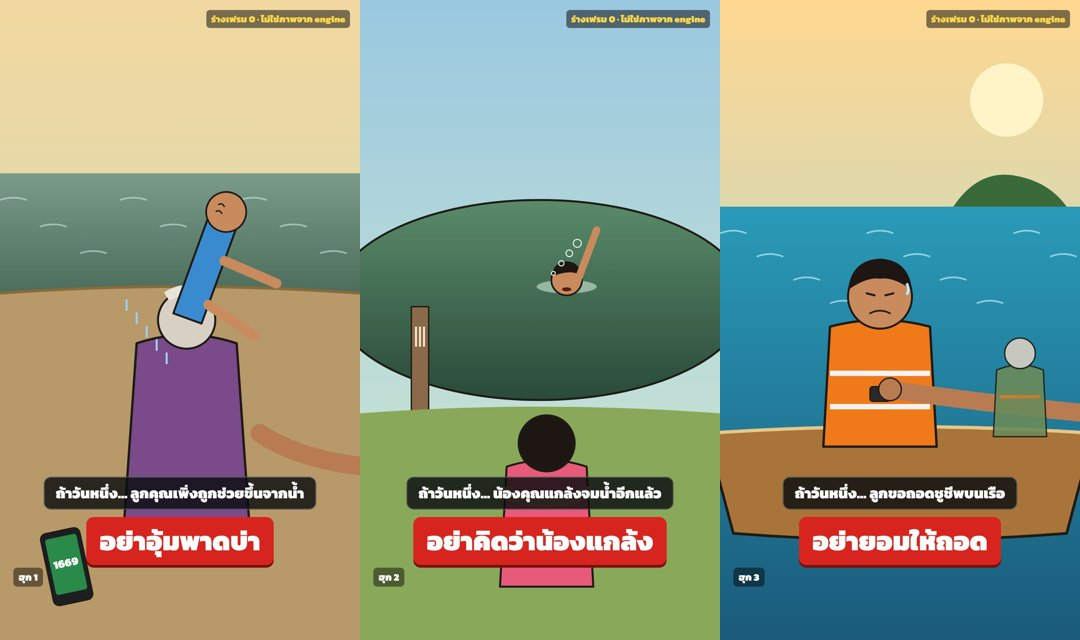
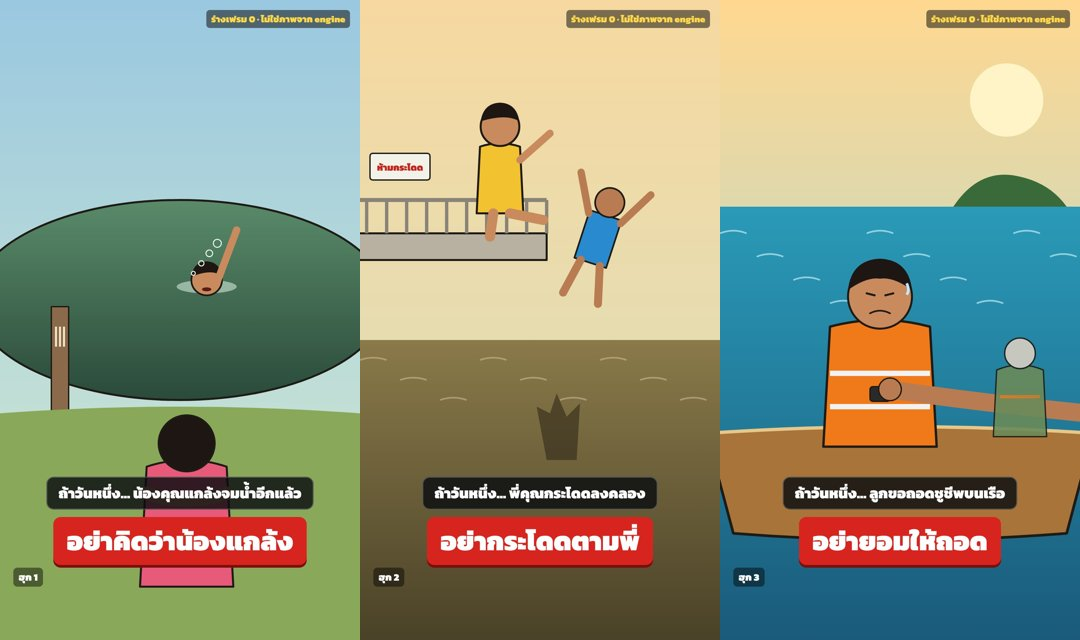
hooks 8 Nov v2: draping hook archived (same command as มือพราย EP.2), prank-drowning promoted with rule 7 as main knowledge, new backup 'don't jump in after your brother' (DDC rule 5), life-vest hook gets the marine department wording
Claude-Session: https://claude.ai/code/session_017iwyCvx1zDsQSsZQNMKKUs

diff --git a/video/release/hooks/candidates/2026-11-08/src/frames.py b/video/release/hooks/candidates/2026-11-08/src/frames.py
@@ -76,8 +76,28 @@ h3 = f"""<defs><linearGradient id="s3" x1="0" y1="0" x2="0" y2="1"><stop offset=
 <g transform="translate(900,1250)" opacity=".9"><path d="M-70,-140Q0,-170 70,-140L80,60H-80Z" fill="#6a8a5a" {ln(4)}/><path d="M-60,-60h120" stroke="#f07a1a" stroke-width="10" opacity=".8"/><circle cy="-190" r="46" fill="#d8d0c4" {ln(4)}/></g>
 """
 
-for i, (body, c1, cmd) in enumerate([(h1, "ถ้าวันหนึ่ง… ลูกคุณเพิ่งถูกช่วยขึ้นจากน้ำ", "อย่าอุ้มพาดบ่า"),
-                                      (h2, "ถ้าวันหนึ่ง… น้องคุณแกล้งจมน้ำอีกแล้ว", "อย่าคิดว่าน้องแกล้ง"),
+
+# ---------------- hook 4 (v2): canal bridge — big brother mid-air, little brother on the railing about to follow; murky water, a stump under the surface
+h4 = f"""<defs><linearGradient id="s4" x1="0" y1="0" x2="0" y2="1"><stop offset="0" stop-color="#f6d8a0"/><stop offset="1" stop-color="#d8e0c0"/></linearGradient>
+<linearGradient id="w4" x1="0" y1="0" x2="0" y2="1"><stop offset="0" stop-color="#8a7a4a"/><stop offset="1" stop-color="#4a4228"/></linearGradient></defs>
+<rect width="1080" height="1920" fill="url(#s4)"/>
+<rect y="1020" width="1080" height="900" fill="url(#w4)"/>
+{''.join(f'<path d="M{k*120},{1080+(k%3)*60}q40,-14 80,0" stroke="#c8b88a" stroke-width="5" fill="none" opacity=".6"/>' for k in range(9))}
+<!-- the hidden stump under the murky surface (the viewer sees it, the boys do not) -->
+<path d="M560,1380l-30,-160l40,20l20,-60l30,70l40,-40l-10,170z" fill="#2a2216" opacity=".55"/>
+<!-- the concrete bridge from the left, railing -->
+<path d="M-20,700H560V780H-20Z" fill="#b8b0a0" {ln(6)}/><path d="M-20,600H560" stroke="#8a8478" stroke-width="12"/>{''.join(f'<path d="M{20+k*60},600V700" stroke="#8a8478" stroke-width="10"/>' for k in range(10))}
+<!-- big brother in mid-air, arms up -->
+<g transform="translate(700,760) rotate(18)"><path d="M-50,-120h100v150h-100z" fill="#2a8ad0" {ln(5)}/><circle cy="-160" r="44" fill="#b97c52" {ln(5)}/><path d="M-50,-110L-110,-220M50,-110L110,-220" stroke="#b97c52" stroke-width="22" stroke-linecap="round"/><path d="M-30,30L-50,140M30,30L60,140" stroke="#b97c52" stroke-width="24" stroke-linecap="round"/></g>
+<!-- little brother climbing onto the railing, one leg over (the lure: follow him) -->
+<g transform="translate(420,600)"><path d="M-60,-160Q0,-180 60,-160L70,40H-70Z" fill="#f2c230" {ln(6)}/><circle cy="-220" r="58" fill="#c98a5e" {ln(6)}/><path d="M-58,-236Q-50,-290 0,-292Q50,-290 58,-236Q20,-260 -58,-236Z" fill="#1e1612"/>
+<path d="M-20,40L-30,110M30,40L130,60" stroke="#c98a5e" stroke-width="30" stroke-linecap="round"/><path d="M60,-120L150,-200" stroke="#c98a5e" stroke-width="22" stroke-linecap="round"/></g>
+<!-- a hand-painted sign on the bridge post (the clue): ห้ามกระโดด -->
+<g transform="translate(120,520)"><rect x="-90" y="-60" width="180" height="80" rx="8" fill="#f2f2e8" {ln(4)}/><text x="0" y="-8" font-family="F3" font-size="28" text-anchor="middle" fill="#c8241e">ห้ามกระโดด</text></g>
+"""
+
+for i, (body, c1, cmd) in enumerate([(h2, "ถ้าวันหนึ่ง… น้องคุณแกล้งจมน้ำอีกแล้ว", "อย่าคิดว่าน้องแกล้ง"),
+                                      (h4, "ถ้าวันหนึ่ง… พี่คุณกระโดดลงคลอง", "อย่ากระโดดตามพี่"),
                                       (h3, "ถ้าวันหนึ่ง… ลูกขอถอดชูชีพบนเรือ", "อย่ายอมให้ถอด")], 1):
     open(os.path.join(OUT, f"hook{i}.html"), "w").write(page(body, c1, cmd, "ฮุก " + str(i)))
 print("ok")

diff --git a/video/release/hooks/candidates/2026-11-08/hooks.md b/video/release/hooks/candidates/2026-11-08/hooks.md
@@ -1,4 +1,11 @@
-# ฮุก 3 ตัว · 8 พ.ย. 2569 · โต๊ะเรื่อง (เลน B)
+# ฮุก 3 ตัว · 8 พ.ย. 2569 · โต๊ะเรื่อง (เลน B) · v2
+
+- **v2 (6 พ.ย. หลังผู้ประสานงานให้ความเห็น):**
+  - อุ้มพาดบ่าออกจากชุด เพราะคำสั่งตรงกับมือพราย EP.2 ทุกคำ และฉบับเต็มลง 10 พ.ย. · ย้ายไปไว้ในคลังท้ายไฟล์ (หักมุม "เสียง 1669 คือแม่" เก็บไว้ใช้กับเรื่องอื่น)
+  - น้องแกล้งจมน้ำขึ้นเป็นตัวหลัก ความรู้หลักคือข้อ 7
+  - เพิ่ม "พี่กระโดดลงคลอง" เป็นตัวสำรองใหม่
+  - ชูชีพได้ข้อความตรงตัวจากกรมเจ้าท่าแล้ว
+
 
 - **เกณฑ์:** TEAM-CHARTER หัวข้อ 2b
   - HG1 ทางเลือกที่เจ็บ · HG2 ปมในครอบครัวตั้งแต่ EP.1 · HG3 หักมุมจากคน · HG7
@@ -17,37 +24,7 @@
 
 ---
 
-## ฮุก 1 · หลานเพิ่งถูกช่วยขึ้นจากน้ำ ยายจะอุ้มพาดบ่า (แนะนำเป็นตัวหลัก)
-- **ฮุก:** "ถ้าวันหนึ่ง… ลูกคุณเพิ่งถูกช่วยขึ้นจากน้ำ" + **{อย่าอุ้มพาดบ่า}**
-  - คำสั่งเริ่มที่ **2.85 วิ** · ยาว 1.10 วิ · ประโยคเปิด CER 0.05 · คำสั่ง 0.07 (อุ้ม → อุม)
-- **ใครรักใคร · คำสั่งขัดกับอะไร:** ยายรักหลาน และพ่อรักลูก · ขัดกับสัญชาตญาณ "เอาน้ำออก" ที่คนแก่ทำกันมาทั้งหมู่บ้าน
-  - ยายอุ้มหลานขึ้นพาดบ่าแล้วจะวิ่ง พ่อต้องดึงลูกออกจากมือแม่ตัวเอง
-- **พลิกสูตร (S14):** ครั้งนี้คำสอนของคนแก่เป็นฝ่ายผิด กลอนที่ถูกมาจากคนอื่น
-- **เฟรม 0:** ริมคลอง ยายหันหลังให้กล้อง ยกร่างเด็กตัวเปียกขึ้นพาดบ่า มือพ่อยื่นเข้ามาจากขวา มือถือบนทรายขึ้นเบอร์ 1669
-- **ทางเลือกที่เจ็บแต่ละตอน (HG2):**
-  - **EP.1:** พ่อต้องแย่งลูกจากมือแม่ตัวเอง ต่อหน้าคนทั้งท่าน้ำที่ตะโกนว่า "เอาน้ำออกก่อน!"
-  - **EP.2:** ลูกไม่หายใจ พ่อไม่เคยทำ CPR ต้องเลือกระหว่างลงมือเองตามเสียงในโทรศัพท์ หรือรอรถ
-- **ปมในครอบครัว (EP.1):**
-  - พ่อเลิกกับแม่ของเด็กมาสามปี ยายไม่ยอมให้ลูกสะใภ้มาเยี่ยมหลาน
-  - หลานคิดถึงแม่ และแอบโทรหาแม่ทุกคืน
-- **หักมุมจากคน (HG3) · โทรศัพท์จากแม่:**
-  - เสียงเจ้าหน้าที่ 1669 ที่บอกให้พ่อ "วางลูกบนพื้นแข็ง เป่าปาก 2 ครั้ง กด 30 ครั้ง" คือแม่ของเด็ก
-  - เธอเป็นพยาบาลศูนย์รับแจ้งเหตุของจังหวัด และจำเสียงลูกชายตัวเองได้ตอนพ่อพูดชื่อ
-- **เบาะแส:**
-  - หลานถามเบอร์ 1669 ว่า "แม่ทำงานเบอร์นี้ใช่ไหม"
-  - ยายดึงปลั๊กโทรศัพท์บ้านทุกคืน
-- **HG7:** การ์ดกดติดตามตอนเสียงในโทรศัพท์นับ "สามสิบ… เป่าสอง"
-- **ความรู้:**
-  - ✔ กรมควบคุมโรค 2566 บทที่ 1:
-    - "ที่สำคัญห้ามจับเด็กอุ้มพาดบ่า แล้ววิ่งรอบสนามหรือกดท้องเพื่อกระแทกเอาน้ำออก หรือจับเด็กห้อยหัวและเขย่าเพื่อเอาน้ำออก เพราะเป็นวิธีที่ผิด"
-    - "เด็กจมน้ำมีเวลาเพียง 4 นาทีในการช่วยชีวิต"
-  - ✔ บทที่ 2 "การปฐมพยาบาล/กู้ชีพขั้นต้น (CPR)":
-    - "อย่าเสียเวลาในการพยายามเอาน้ำออกจากท้อง… เพราะจะทำให้คนจมน้ำขาดอากาศหายใจนานยิ่งขึ้น"
-    - "1. โทรแจ้งหมายเลข 1669… 2. จับคนจมน้ำนอนบนพื้นราบแห้งและแข็ง… เป่าปาก 2 ครั้ง… นวดหัวใจ 30 ครั้ง สลับกับการเป่าปาก 2 ครั้ง… 5. นำส่งโรงพยาบาลทุกราย"
-    - "การเป่าปากยังจำเป็นสำหรับคนที่จมน้ำ… (เป็นข้อยกเว้นของ CPR 2015)"
-  - ฮุกนี้มีแหล่งครบที่สุดในชุด และเป็นความเชื่อผิดที่คนแชร์ให้พ่อแม่ (S13 ข้อ 3)
-
-## ฮุก 2 · น้องแกล้งจมน้ำเป็นครั้งที่สี่ (ตัวสำรอง)
+## ฮุก 1 · น้องแกล้งจมน้ำเป็นครั้งที่สี่ (ตัวหลัก · v2)
 - **ฮุก:** "ถ้าวันหนึ่ง… น้องคุณแกล้งจมน้ำอีกแล้ว" + **{อย่าคิดว่าน้องแกล้ง}**
   - คำสั่งเริ่มที่ **2.73 วิ** · ยาว 1.32 วิ · ประโยคเปิด CER 0.00 · คำสั่ง 0.11 (น้อง → นอง)
 - **ใครรักใคร · คำสั่งขัดกับอะไร:** พี่สาวรักน้อง แต่เบื่อที่น้องแกล้งมาสามวันติด · ขัดกับสัญชาตญาณ "ไม่หลงกลอีก"
@@ -69,11 +46,47 @@
 - **เบาะแส:**
   - ตาไม่ยอมนั่งริมสระ
   - รอยขีดบนเสาทำโดยใคร (พี่เป็นคนขีด)
-- **HG7:** การ์ดกดติดตามตอนกลอน "ตะโกน โยน ยื่น" โผล่
+- **HG7:** การ์ดกดติดตามตอนกลอนข้อ 7 ของตาโผล่ (ดูข้อ v2 ในหัวข้อความรู้)
 - **ความรู้:**
   - ✔ กรมควบคุมโรค 2566 บทที่ 2 ข้อ 7 "ห้ามเล่นหรือแกล้งจมน้ำ… การล้อเล่นบ่อย ๆ จะทำให้เกิดความไม่แน่ใจในการช่วยเหลือ"
   - ✔ บทที่ 1 "การลงน้ำไปช่วยจะทำให้คนที่ลงไปช่วยถูกกอดรัดและจมน้ำไปพร้อมกัน" + ตะโกน โยน ยื่น
-  - ⚠ ทับกับฮุก 3 ของ 7 พ.ย. (พ่อจมน้ำท่วมบ้าน) ตรงความรู้ ตะโกน โยน ยื่น · ถ้าผู้ประสานงานเลือกตัวนั้นไปแล้ว ตัวนี้ควรเน้นข้อ 7 อย่างเดียว
+  - **v2:** ความรู้หลักคือข้อ 7 ข้อเดียว เขียนเป็น เหตุ → ผล: แกล้งบ่อย → คนช่วยไม่แน่ใจ → ช่วยช้า
+    - ตะโกน โยน ยื่น เป็นความรู้รองใน EP.2 เท่านั้น ไม่ขึ้นการ์ดหลัก
+    - กลอนของตา: "แกล้งจมหนึ่งที คนเชื่อน้อยลงที" (ข้อ 7) เป็นกฎหลัก
+    - HG7 ย้ายไปขึ้นตอนกลอนข้อ 7 โผล่ ไม่ใช่ตอนตะโกน โยน ยื่น
+
+## ฮุก 2 · พี่กระโดดสะพานลงคลอง (ตัวสำรอง · ใหม่ v2)
+- **ฮุก:** "ถ้าวันหนึ่ง… พี่คุณกระโดดลงคลอง" + **{อย่ากระโดดตามพี่}**
+  - คำสั่งเริ่มที่ **2.64 วิ** · ยาว 1.27 วิ · ประโยคเปิด CER 0.00 · คำสั่ง CER 0.06 ("อย่า" → "อยาก")
+  - แบบแรก "พี่คุณกระโดดสะพานลงคลอง" ทำให้คำสั่งตกที่ 3.01 วิ จึงตัดคำว่า "สะพาน" ออก ให้ภาพบอกแทน
+- **ใครรักใคร · คำสั่งขัดกับอะไร:** น้องรักและอยากเป็นเหมือนพี่ชายที่เพิ่งกระโดดลงไปหัวเราะ · ขัดกับสัญชาตญาณตามพี่ทุกอย่าง และพี่ตะโกนท้าว่า "ไม่กล้าเหรอ!"
+- **เฟรม 0:**
+  - สะพานปูนข้ามคลองน้ำขุ่น พี่ลอยกลางอากาศ
+  - น้องยกขาข้ามราวสะพานแล้วข้างหนึ่ง
+  - ใต้ผิวน้ำมีตอไม้เงาดำ ที่คนดูเห็นแต่เด็กไม่เห็น
+  - ป้ายมือเขียน "ห้ามกระโดด" ที่เสาสะพาน
+- **ห่อด้วยความเชื่อ:** ยายว่าใต้สะพานนี้ "เจ้าแม่ตะเคียนจมน้ำ" ใครกระโดดจะโดนดึงขา · เด็กหัวเราะว่ายายหลอก แต่ตอไม้คือต้นตะเคียนเก่าที่ล้มลงคลองจริง
+- **ทางเลือกที่เจ็บแต่ละตอน (HG2):**
+  - **EP.1:** น้องต้องลงจากราวทั้งที่โดนพี่กับเพื่อนหัวเราะว่าขี้ขลาด
+  - **EP.2:** พี่ไม่โผล่ขึ้นมา เพราะไปกระแทกตอไม้ใต้น้ำ · น้องต้องเลือกระหว่างกระโดดตามลงไปหา กับวิ่งไปเรียกผู้ใหญ่
+- **ปมในครอบครัว (EP.1):**
+  - พ่อเอาแต่ชมพี่ว่า "ใจกล้า" และว่าน้องว่า "ปอดแหก"
+  - น้องอยากให้พ่อชมสักครั้ง
+- **หักมุมจากคน (HG3) · คนที่ทุกคนคิดว่าบ้า:**
+  - คนที่ลุยลงไปตามแนวตอไม้ได้ถูกจุด คือป้าเก็บขยะที่ทุกคนเรียกว่า "ป้าบ้า" และไล่เด็กออกจากสะพานทุกวัน
+  - ป้าเป็นคนเขียนป้าย "ห้ามกระโดด" เอง เพราะป้ารู้ว่าตอไม้อยู่ตรงไหน ป้าเก็บขยะติดตอนั้นทุกเช้า
+  - (ต่างจากแบบ "คนถูกล้อกลายเป็นฮีโร่" ของน้าหมาน: ป้าไม่ได้ถูกหาว่าขี้เมา แต่เป็นคนที่รู้ใต้น้ำดีที่สุด และพ่อเป็นคนที่ด่าป้ามาตลอด)
+- **เบาะแส:**
+  - ป้ายเขียนด้วยลายมือเดียวกับป้ายบนรถเข็นขยะของป้า
+  - ป้ายืนชี้ตำแหน่งเดียวกันทุกวัน
+- **HG7:** การ์ดกดติดตามตอนกลอนของยายข้อถัดไปโผล่
+- **ความรู้:**
+  - ✔ กรมควบคุมโรค หลักสูตรป้องกันการจมน้ำ 2566 บทที่ 2 ข้อ 5:
+    - "5. ไม่กระโดดลงน้ำในบริเวณน้ำตื้น น้ำขุ่นหรือไม่ทราบสภาพใต้น้ำ"
+    - "เหตุผล น้ำใส ๆ ที่มองดูว่าลึก อาจตื้นก็ได้ ยิ่งน้ำขุ่นและไม่เคยลงมาก่อน ไม่ควรกระโดดลงน้ำ เพราะอาจมีตอไม้ กิ่งไม้อยู่ใต้น้ำ อาจก่อให้เกิดอันตรายได้"
+  - ✔ ข้อ 4 (ความรู้รอง): "ลงเล่นน้ำหรือว่ายน้ำในบริเวณที่จัดไว้ให้หรือมีเจ้าหน้าที่ (Lifeguard) คอยดูแล"
+  - ⚠ อาการบาดเจ็บที่คอ/ศีรษะจากการกระโดดตื้น ยังไม่มีแหล่ง บทไม่พูดถึง และไม่สอนการช่วยคนบาดเจ็บกระดูกคอ
+  - **ทับกับเรื่องเก่า:** แตนบ้าน EP.1 มีคำสั่ง "อย่ากระโดดลงน้ำ" แต่คนละสถานการณ์ (หนีแตน) และคำสั่งนี้ผูกกับพี่ ไม่ซ้ำคำ
 
 ## ฮุก 3 · ลูกขอถอดชูชีพบนเรือไปเกาะ (ตัวที่ 3)
 - **ฮุก:** "ถ้าวันหนึ่ง… ลูกขอถอดชูชีพบนเรือ" + **{อย่ายอมให้ถอด}**
@@ -97,9 +110,11 @@
 - **HG7:** การ์ดกดติดตามตอนกลอนข้อ 2 โผล่
 - **ความรู้:**
   - ✔ กรมควบคุมโรค 2566 บทที่ 1 "การกำหนดให้ผู้โดยสารเรือทุกคนต้องใส่เสื้อชูชีพ/เสื้อพยุงตัวตลอดเวลาที่เดินทางหรือทำกิจกรรมทางน้ำ เพราะเสื้อชูชีพ/เสื้อพยุงตัวเป็นอุปกรณ์เพื่อความปลอดภัยทางน้ำ ซึ่งจะช่วยให้คนใส่ลอยตัวอยู่ในน้ำ…"
-  - ⚠ ต้นฉบับข้อนี้อยู่ในหัวข้อ "มาตรการทางกฎหมายของท้องถิ่น" ไม่ใช่คำแนะนำผู้โดยสารโดยตรง
-    - ถ้าจะเขียนบท ควรใช้แหล่งของกรมเจ้าท่าที่เรื่องลอยกระทงยืนยันไว้แล้ว: SOURCES 1.2 ✔ "สวมเสื้อชูชีพทุกครั้ง เมื่อโดยสารเรือ"
-    - และหาข้อความเรื่อง "เรือต้องมีชูชีพครบทุกคน" เพิ่ม
+  - **v2 · ✔ กรมเจ้าท่าตรงตัว** (ยืนยันแล้วในเรื่องลอยกระทง `video/krathong/SOURCES.md` 1.3 และ 2.1):
+    - ข่าวแจกกรมเจ้าท่า ลอยกระทง 2568 (4 พ.ย. 2568 · https://www.thaipr.net/?p=3661064): "สวมเสื้อชูชีพทุกครั้ง เมื่อโดยสารเรือ ไม่ปีน นั่ง หรือยืนในจุดอันตรายบนเรือ…"
+    - ประกาศกรมเจ้าท่า ที่ 1047/2568 (ผ่าน ปชส.แพร่ · https://phrae.prd.go.th/th/content/category/detail/id/9/iid/435408): "3.1 การโดยสารเรือ… ขณะลงเรือควรขอเสื้อชูชีพจากผู้ควบคุมเรือ เพื่อสวมใส่ หรือนำมาไว้ใกล้ตัว"
+    - ข้อสังเกต: ประกาศ 1047 ใช้คำว่า "ควร… สวมใส่ หรือนำมาไว้ใกล้ตัว" ส่วนข่าวแจกเขียน "สวมทุกครั้ง" · บทใช้ข้อความข่าวแจก
+  - ต้นฉบับกรมควบคุมโรคข้อนี้อยู่ในหัวข้อ "มาตรการทางกฎหมายของท้องถิ่น" ใช้เป็นแหล่งรองเท่านั้น
   - ทับกับลอยกระทงที่มะปรางไม่ยอมใส่ชูชีพ (EP.1 m03) · ตัวนี้จึงเป็นอันดับ 3
 
 ---
@@ -107,8 +122,15 @@
 ## สรุปของโต๊ะเรื่อง
 | # | ฮุก | คำสั่งเริ่มที่ | HG1 | หักมุมจากคน | ความรู้ |
 |---|---|---|---|---|---|
-| 1 | ลูกเพิ่งถูกช่วยขึ้นจากน้ำ {อย่าอุ้มพาดบ่า} | 2.85 วิ | พ่อ vs แม่ตัวเองที่จะเอาน้ำออก | โทรศัพท์จากแม่ (เจ้าหน้าที่ 1669) | ✔ ครบ ตรงตัว |
-| 2 | น้องแกล้งจมน้ำ {อย่าคิดว่าน้องแกล้ง} | 2.73 วิ | พี่ที่เบื่อ vs น้องที่จมจริง | ความลับของตา | ✔ ข้อ 7 ตรงตัว |
-| 3 | ลูกขอถอดชูชีพ {อย่ายอมให้ถอด} | 2.68 วิ | แม่ vs ลูกที่ร้อนจนร้องไห้ | ยายใส่ชูชีพซ้อน | ✔ บางส่วน · ⚠ ต้องหาแหล่งกรมเจ้าท่าเพิ่ม |
+| 1 | น้องแกล้งจมน้ำ {อย่าคิดว่าน้องแกล้ง} | 2.73 วิ | พี่ที่เบื่อ vs น้องที่จมจริง | ความลับของตา | ✔ ข้อ 7 ตรงตัว (ความรู้หลัก) |
+| 2 | พี่กระโดดลงคลอง {อย่ากระโดดตามพี่} | 2.64 วิ | น้องที่อยากเหมือนพี่ vs ตอไม้ใต้น้ำ | ป้าเก็บขยะที่ทุกคนเรียกว่าบ้า | ✔ ข้อ 5 ตรงตัว |
+| 3 | ลูกขอถอดชูชีพ {อย่ายอมให้ถอด} | 2.68 วิ | แม่ vs ลูกที่ร้อนจนร้องไห้ | ยายใส่ชูชีพซ้อน | ✔ กรมเจ้าท่า (ข่าวแจก 2568 + ประกาศ 1047/2568) |
 
-- **แนะนำ:** 1 เป็นตัวหลัก (ความเชื่อผิดที่แชร์ได้ + คนแก่ผิดเป็นครั้งแรก) · 2 เป็นตัวสำรอง · 3 เป็นอันดับสาม
+- **แนะนำ:** 1 เป็นตัวหลัก · 2 เป็นตัวสำรอง · 3 เป็นอันดับสาม
+- ค่าอัดวัดเวลา ≈ $0.11 (รอบแรก + ฮุกกระโดด 2 แบบ)
+
+## คลัง (ไม่ใช้รอบนี้)
+### อุ้มพาดบ่า {อย่าอุ้มพาดบ่า} · ตกรอบ v2
+- คำสั่งตรงกับมือพราย EP.2 ทุกคำ และความรู้ CPR บนท่าน้ำซ้ำกันทั้งชุด · มือพราย ฉบับเต็มลง 10 พ.ย.
+- เก็บไว้: หักมุม "เสียงเจ้าหน้าที่ 1669 ที่สอนพ่อ คือแม่ของเด็กที่ยายไม่ให้มาเยี่ยม" ใช้กับเรื่องอื่นที่คำสั่งไม่ซ้ำ
+- แหล่งที่ยืนยันแล้ว (กรมควบคุมโรค 2566 บทที่ 1 และบทที่ 2 CPR) อยู่ใน commit 63e73f2
